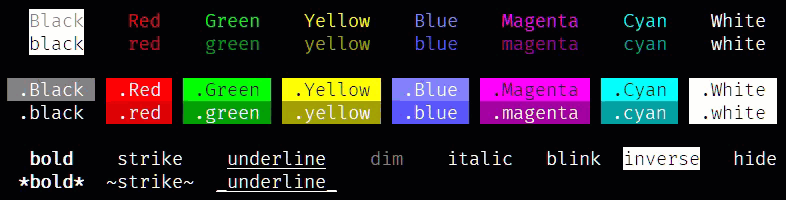
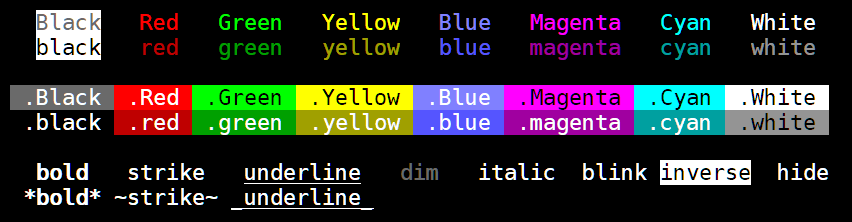
* Some final tweaks to demo.js * Updated README.md

diff --git a/misc/demo.js b/misc/demo.js
@@ -21,14 +21,14 @@ console.log(FULL_RESET);
 br('Header');
 
 let lines = [
-	[4, ' ', 'Black:Black.White', 'Red', 'Green', 'Yellow', 'Blue', 'Magenta', 'Cyan', 'White'],
-	[4, ' ', 'black:black.White', 'red', 'green', 'yellow', 'blue', 'magenta', 'cyan', 'white'],
+	[3, '', 'Black:Black.White', 'Red', 'Green', 'Yellow', 'Blue', 'Magenta', 'Cyan', 'White'],
+	[3, '', 'black:black.White', 'red', 'green', 'yellow', 'blue', 'magenta', 'cyan', 'white'],
 	[],
-	[1, '  ', ' .Black ', ' .Red ', ' .Green :black.Green', ' .Yellow :black.Yellow', ' .Blue ', ' .Magenta :black.Magenta', ' .Cyan :black.Cyan', ' .White :black.White'],
-	[1, '  ', ' .black ', ' .red ', ' .green :.green', 	  ' .yellow :.yellow', 	    ' .blue ', ' .magenta :.magenta', 	   ' .cyan :.cyan', 	 ' .white :black.white'],
+	[0, ' ', ' .Black ', ' .Red ', ' .Green :black.Green', ' .Yellow :black.Yellow', ' .Blue ', ' .Magenta :black.Magenta', ' .Cyan :black.Cyan', ' .White :black.White'],
+	[0, ' ', ' .black ', ' .red ', ' .green :.green', 	  ' .yellow :.yellow', 	    ' .blue ', ' .magenta :.magenta', 	   ' .cyan :.cyan', 	 ' .white :black.white'],
 	[],
-	[2, '  ', ' bold  ', 'strike  ', 'underline', '  dim :Black', ' italic ', 'blink', 'inverse', ' hide'],
-	[2, '  ', '\\*bold\\*:bold', '\\~strike\\~:strike', '\\_underline\\_:underline'],
+	[1, ' ', ' bold  ', 'strike  ', 'underline', '  dim :Black', ' italic ', 'blink', 'inverse', ' hide'],
+	[1, ' ', '\\*bold\\*:bold', '\\~strike\\~:strike', '\\_underline\\_:underline'],
 ];
 
 let out;
@@ -50,8 +50,7 @@ out = lines.map((cur) => {
 	}).join('\n');
 
 // console.log(out + '\n');
-str = log`${out}
-`;
+str = log`${out}`;
 
 // console.log(str.replace(/\x1B/g, 'Ɛ'));
 console.log(str);

diff --git a/README.md b/README.md
@@ -5,9 +5,7 @@ MicroChalk is a simple library for coloring terminal output with ansi codes.
 
 #### Project Aims
 
-* To be smaller
-* More flexible
-* With no dependencies
+* Be smaller & more flexible than other libraries with no dependencies
 * Slightly more opinionated.
 
 Most existing ``` chalk `template tag` ``` strings should work out of the box, please report if you find a discrepancy.
@@ -15,44 +13,35 @@ Most existing ``` chalk `template tag` ``` strings should work out of the box, p
 ---
 ### Quick Example
 
-<table width="100%" border="0" cellspacing="0" cellpadding="0">
-    <tr>
-<td>
-
 ```js
 const log = require('micro-chalk');
 
 let str = log`
-{red The color red is nice.}
-{green green is nice too!}
-
-{Red Is this a better red?}
-{Green Is this a better green?}
+{red There are *eight base colors* which come in _two shades_.}
+{Green Green is bright, while {green green is dimmer than} {Green Green}}
 `;
 
 console.log(str);
 ```
 
-</td>
-<td valign="top">
-
 ![](res/img/QuickSample.png)
-
-</td>
-</tr>
-</table>
 
 ### Features
   * Simple Foreground/Background/Formatting
-  * Allows Nested Styles
-  * Allows Nested [Template Literals](https://developer.mozilla.org/en/docs/Web/JavaScript/Reference/Template_literals)
-  * Aliases / Nested Aliases
-  * pre/post Hooks
+  * Nested Styles
+  * Nested [Template Literals](https://developer.mozilla.org/en/docs/Web/JavaScript/Reference/Template_literals)
+  * Custom Aliases
+  * Custom pre/post Hooks
+  * Pattern Aliasing (\***bold**\*, _\_italic\__ or `add your own`)
+  * Direct use of `256-color` codes and 24bit color via `#F00/#10FF10`
+  * Base `Parser` is extensible for other markup uses
 
 ### Examples
 
 #### Foreground/Background/Formatting
-Unlike chalk, the first color to be referenced is assumed to be the foreground color while the second is assumed to be the background color.  This lets us have the same color names for little extra effort.
+With micro-chalk, the first color used is taken as the foreground color while the second is the background color.  This lets us have the same color names for little extra effort.
+
+In cases where only the background color is needed, simply use `.Red` as an example.
 
 ```js
 const log = require('micro-chalk');
@@ -63,8 +52,8 @@ let str = log`
 {Black.White Black text on White background.}
         {Black.white Black text on white background.}
 
-    {Yellow Note the case difference of white vs White, all colors are this way.}
-        {white Lowercase is dim} and {White Title case is bright.}
+    {Yellow Note use of white vs White, all base colors work this way.}
+        {White Title case is bright} and {white lowercase is dim.} 
             red -> Red, blue -> Blue, etc.
         
         chalk          micro-chalk
@@ -81,10 +70,10 @@ let str = log`
           {bgRedBright bgRedBright}    {.Red .Red}
 
 
-{White.Red Sample of White on Red.}
-        {White.red Sample of White on red.}
-{White.Blue Sample of White on Blue.}
-        {White.blue Sample of White on blue.}
+{.Red Sample of White on Red.}
+        {.red Sample of White on red.}
+{.Blue Sample of White on Blue.}
+        {.blue Sample of White on blue.}
 `;
 
 console.log(str);
@@ -108,7 +97,10 @@ const log = require('micro-chalk')
         }
     } );
 
-log`{Magenta There are many colors available}`;
+log`
+{White You can use the {red post hook} to cause the 
+result to go *straight to the console.*}
+`;
 ```
 
 ![](res/img/PostSample.png)
@@ -120,7 +112,10 @@ Nesting styles lets you encapsulate styles within one another; when an inner sec
 const log = require('micro-chalk')
     .options( { post: (output) => { console.log(output); return output; } } );
 
-log`{Magenta There are {Red many colors} {Blue available} for use, {Yellow 256 to be} exact.}`;
+log`
+{Magenta Most terminals {red support {green the basic} 16 colors},  
+{cyan many terminals} {Yellow support 256 colors} {Blue and 24-bit color.}}
+`;
 ```
 
 ![](res/img/NestingStyles.png)
@@ -191,6 +186,27 @@ log`
 `;
 ```
 ![](res/img/AliasingSample.png)
+
+#### Additional Features
+
+```js
+const log = require('micro-chalk')
+	.options({
+		patternAliases: Object.assign({}, log.patternAliases, {
+			'(\\[[^\\]]+\\])' : 'White.blue'
+		}),
+		post:    (output) => { console.log(output); return output; }
+	});
+
+log`
+- {#FFF.#0000FF Use CSS Hex Codes Directly}
+
+- {124.251  Directly use ANSI 256 color codes}
+
+- {Red *Convenient* _pattern aliasing_ lets you do [nearly anything].}
+`;
+```
+![](res/img/AdditionalFeatures.png)
 
 ### Notes
   * micro-chalk assumes your output is ansi 256 color compliant
